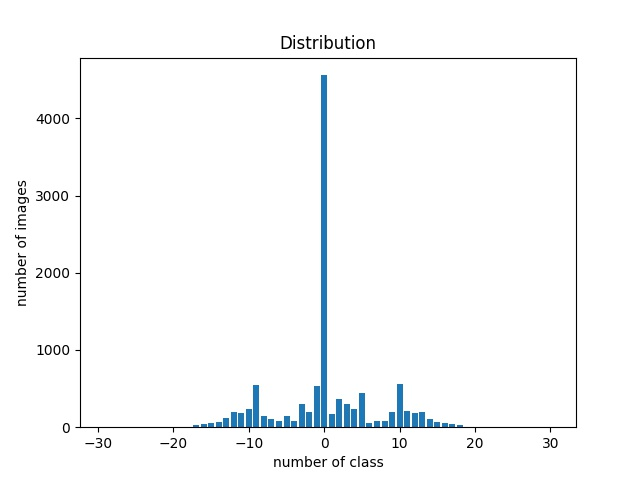
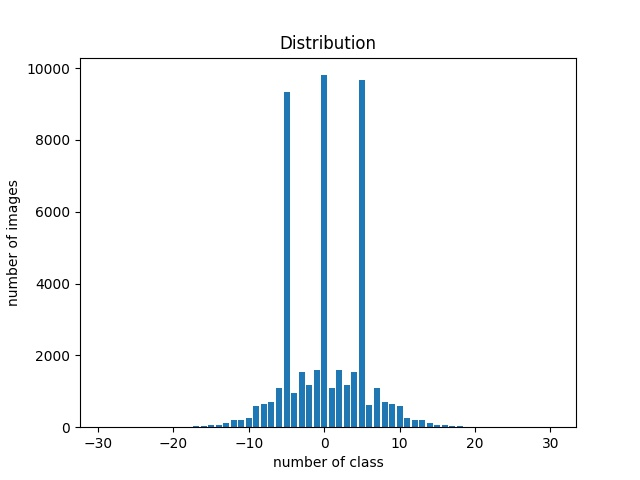
update

diff --git a/model_old.py b/model_old.py
@@ -7,7 +7,7 @@ from PIL import Image
 
 lines = []
 ### get the informations from csv file of data of Udacity
-with open('../../ubuntu/driving_log.csv') as csvfile:
+with open('../../ubuntu/data/driving_log.csv') as csvfile:
     next(csvfile, None)
     reader = csv.reader(csvfile)
     for line in reader:
@@ -20,8 +20,8 @@ print(len(lines))
 ### for example, the name of image from the central camera, left camera, right camera, the sterring angle. 
 ### read every image and flip the image, and 
 def image_flip(line, folderName):
-	delta_left = 0.3
-	delta_right=0.4
+	delta_left = 0.2
+	delta_right=0.2
 	angle = float(line[3])
 
 	#####for the central camera#####
@@ -84,7 +84,7 @@ images = []
 measurements = []
 # save the image data from Udacity and the steering angle, the flipped image of the original image should also be saved
 for line in lines:
-	image_flip(line, '../../ubuntu/IMG/')
+	image_flip(line, '../../ubuntu/data/IMG/')
 print(len(images))
 
 

diff --git a/model.py b/model.py
@@ -191,7 +191,7 @@ model.add(Dense(10, W_regularizer=l2(sigma), b_regularizer=l2(sigma), activation
 model.add(Dense(1))
 
 
-batch_size = 128
+batch_size = 64
 epoch_number = 2
 ##### compile #####
 model.compile(loss='mse', optimizer='adam', metrics=['accuracy'])
